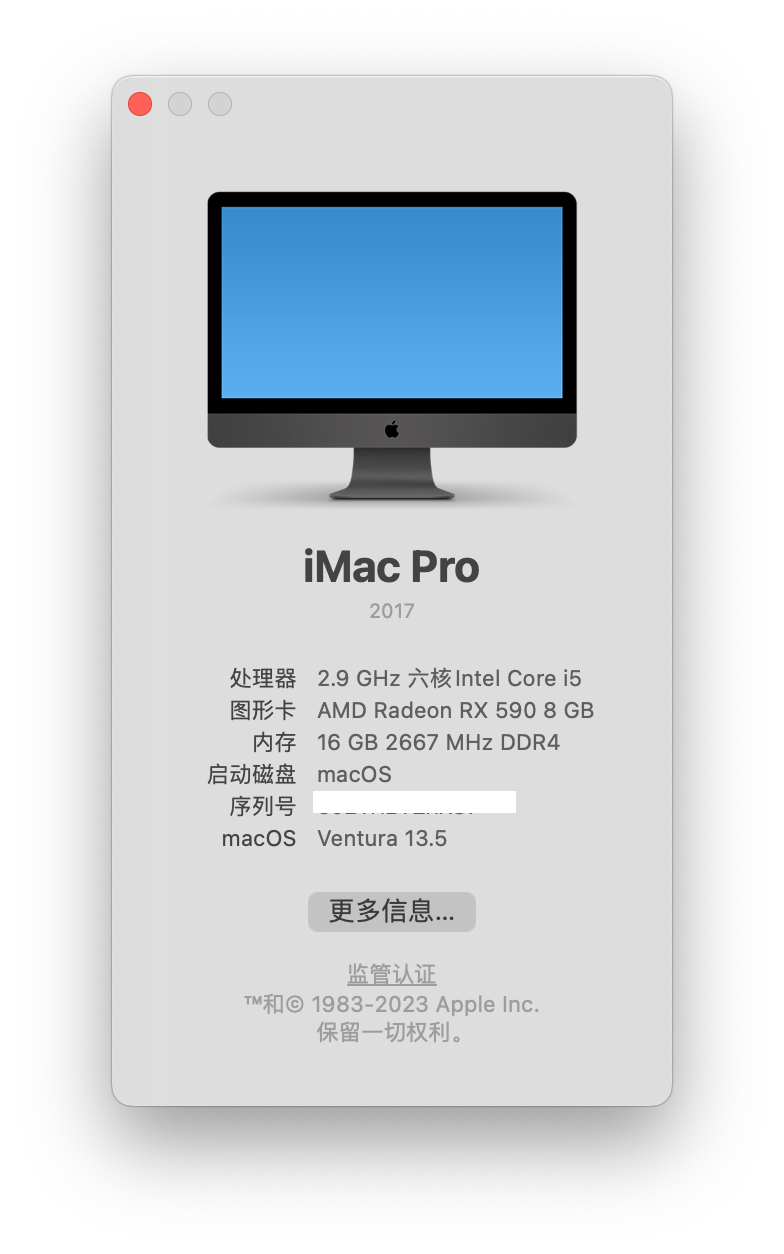
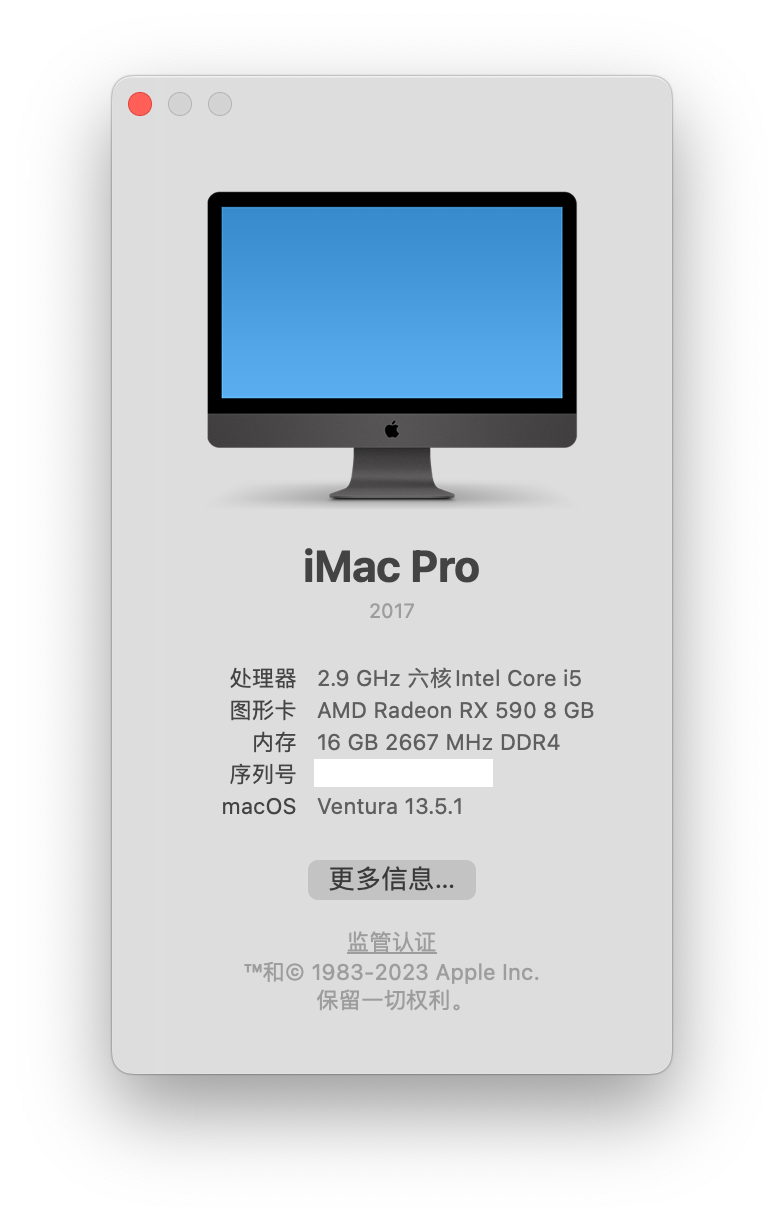
macOS 13.5.1

diff --git a/README.md b/README.md
@@ -29,7 +29,7 @@ Hackintosh OpenCore EFI</br>
 
 | EFI   | macOS             | OpenCore |     -      |
 | ----- | ----------------- | :------: | :--------: |
-| 3.5.1 | 13.5              |  0.9.4   | 2023.08.08 |
+| 3.5.1 | 13.5 ~ 13.5.1     |  0.9.4   | 2023.08.08 |
 | 3.5   | 13.5              |  0.9.3   | 2023.07.25 |
 | 3.4   | 13.4 ~ 13.4.1 (c) |  0.9.2   | 2023.05.19 |
 | 3.3   | 13.3 ~ 13.3.1 (a) |  0.9.0   | 2023.03.28 |
